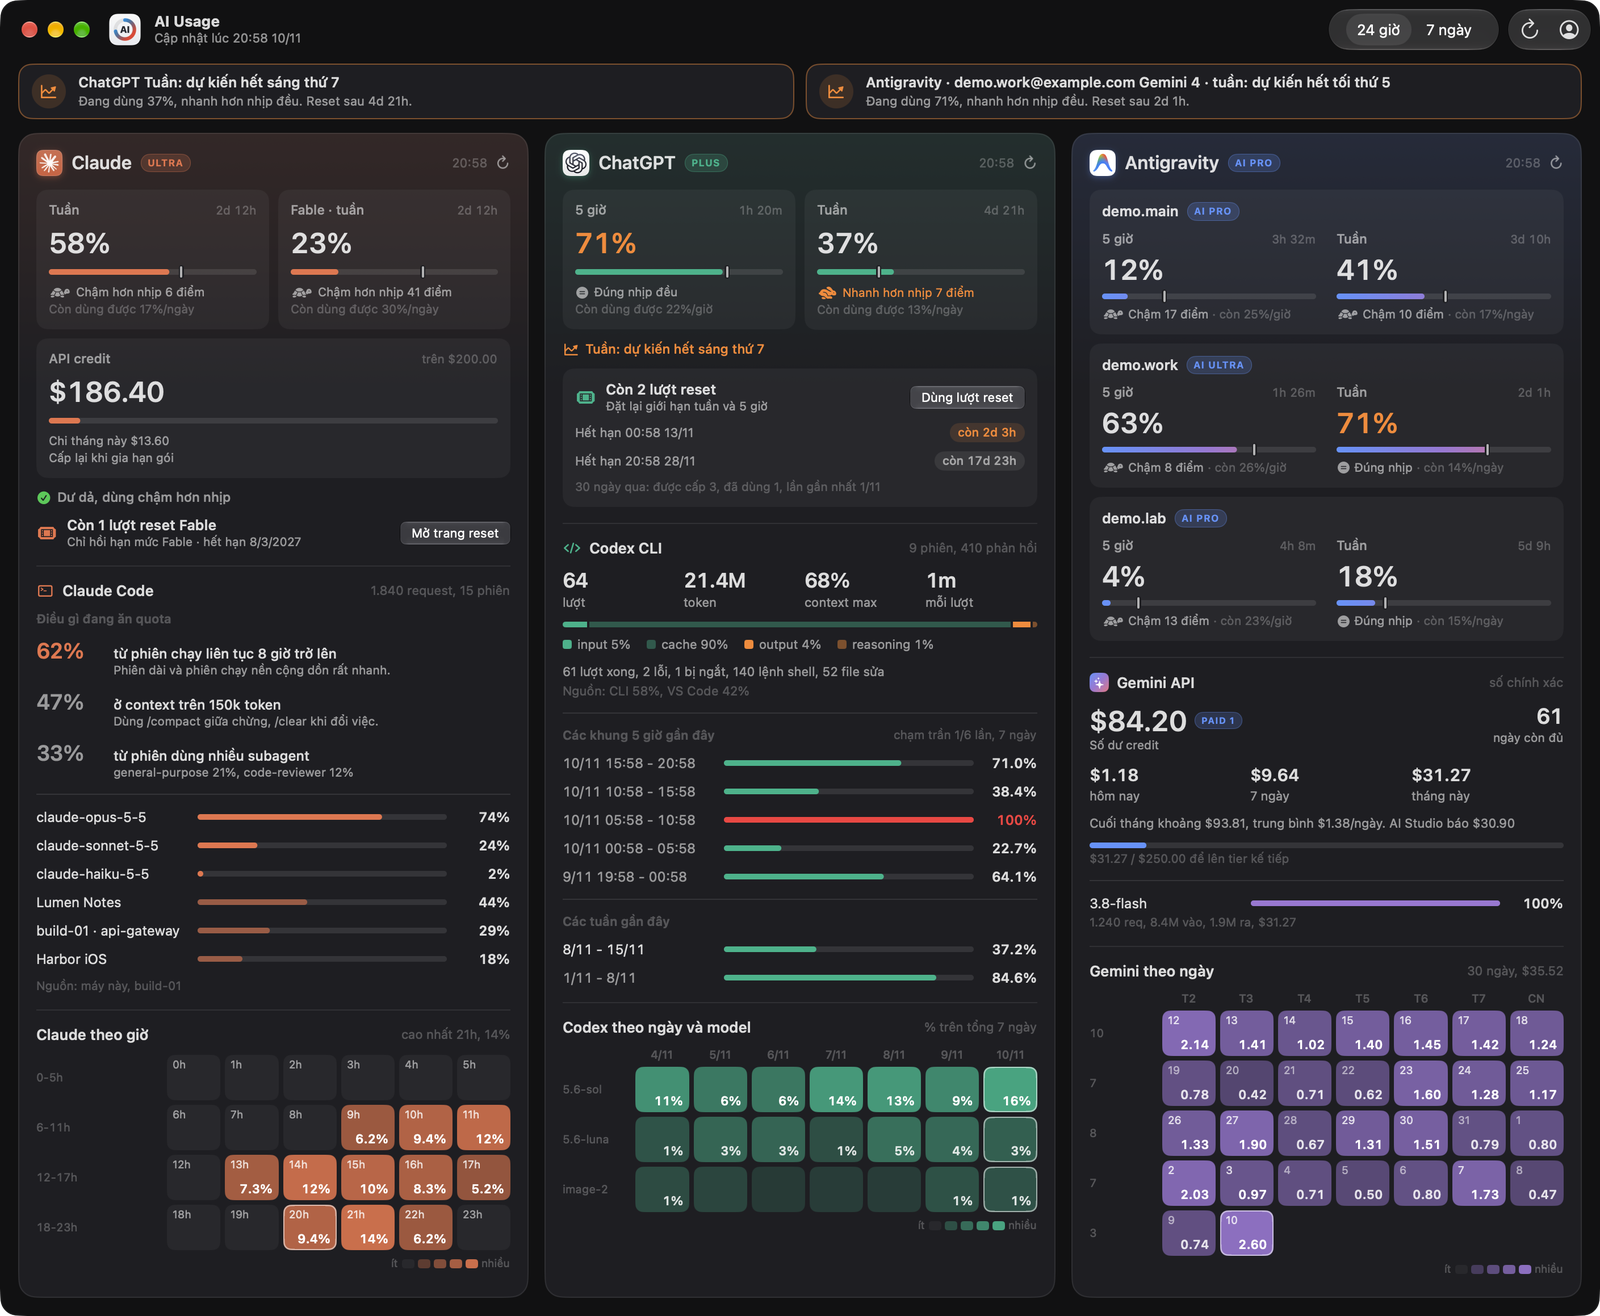
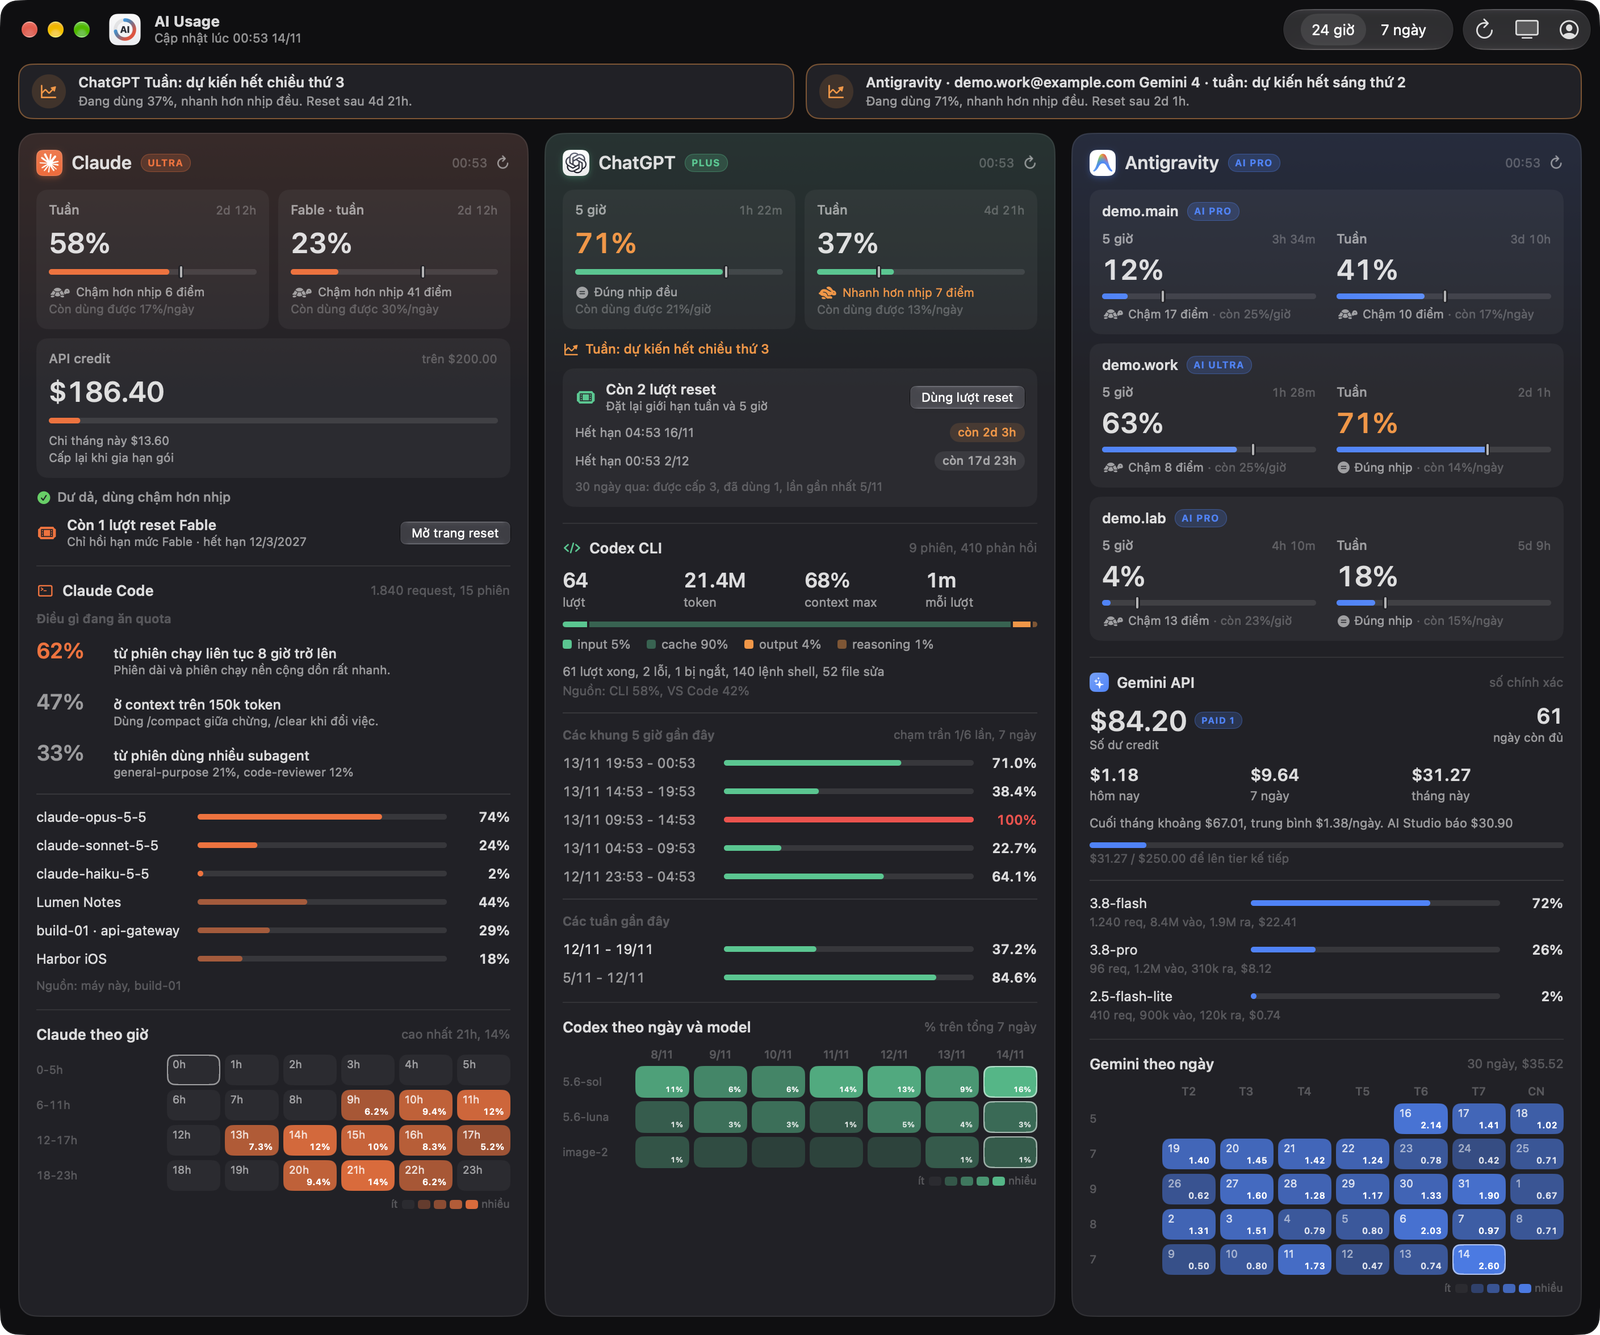
Ảnh giới thiệu theo màu mới, thêm ảnh màn hình Cast
Chụp lại ảnh bảng điều khiển bằng số liệu mẫu. Thêm chế độ
--cast-snapshot xuất snapshot của màn hình Cast để dựng ảnh từ số liệu
mẫu, và ghi cách chụp vào DEVELOPMENT.md.

diff --git a/AIUsage/AIUsageApp.swift b/AIUsage/AIUsageApp.swift
@@ -21,6 +21,14 @@ struct AIUsageApp: App {
             CastOneShot.run()
             exit(0)
         }
+        // Screenshot tooling: `--cast-snapshot <file>` writes the snapshot the Cast display would get
+        // (with AIUSAGE_HOME, from sample data) for cast-receiver/index.html?demo&snapshot=<url>.
+        if let i = CommandLine.arguments.firstIndex(of: "--cast-snapshot"), i + 1 < CommandLine.arguments.count {
+            let snap = CastSnapshot.message(DashboardStore(), now: Date())
+            let data = try? JSONSerialization.data(withJSONObject: snap, options: [.prettyPrinted, .sortedKeys])
+            FileManager.default.createFile(atPath: CommandLine.arguments[i + 1], contents: data, attributes: [.posixPermissions: 0o600])
+            exit(data == nil ? 1 : 0)
+        }
         // Copy the bundled scripts and helper into Application Support and register the
         // background jobs; a no-op unless this build or its location is new.
         DispatchQueue.global(qos: .utility).async { RuntimeInstaller.installIfNeeded() }

diff --git a/docs/DEVELOPMENT.md b/docs/DEVELOPMENT.md
@@ -166,6 +166,8 @@ screencapture -o -x -l <windowID> shot.png
 
 - `AIUSAGE_HOME` trỏ tới thư mục chứa `.ai_usage_cache.json` mẫu; ở chế độ này app không cài LaunchAgent và không chạy script lấy số, nên không ghi đè gì.
 - Chạy thẳng tệp thực thi thì không có cửa sổ; phải mở bằng `open -n`.
+- Bản sao dùng chung `defaults` với app thật: thêm `--args -castEnabled NO` để nó không gửi số mẫu lên màn hình Cast đang bật.
+- Ảnh màn hình Cast: `AIUSAGE_HOME=/thư/mục/mẫu AIUsage --cast-snapshot mau.json` xuất đúng snapshot mà màn hình Cast sẽ nhận, rồi mở `cast-receiver/index.html?demo&snapshot=<url của file>` ở cỡ 1024x600.
 - Quét lại ảnh và cache mẫu để chắc không còn tên máy, địa chỉ, ID project hay tên thư mục thật.
 
 ## Widget và các bẫy của chronod
